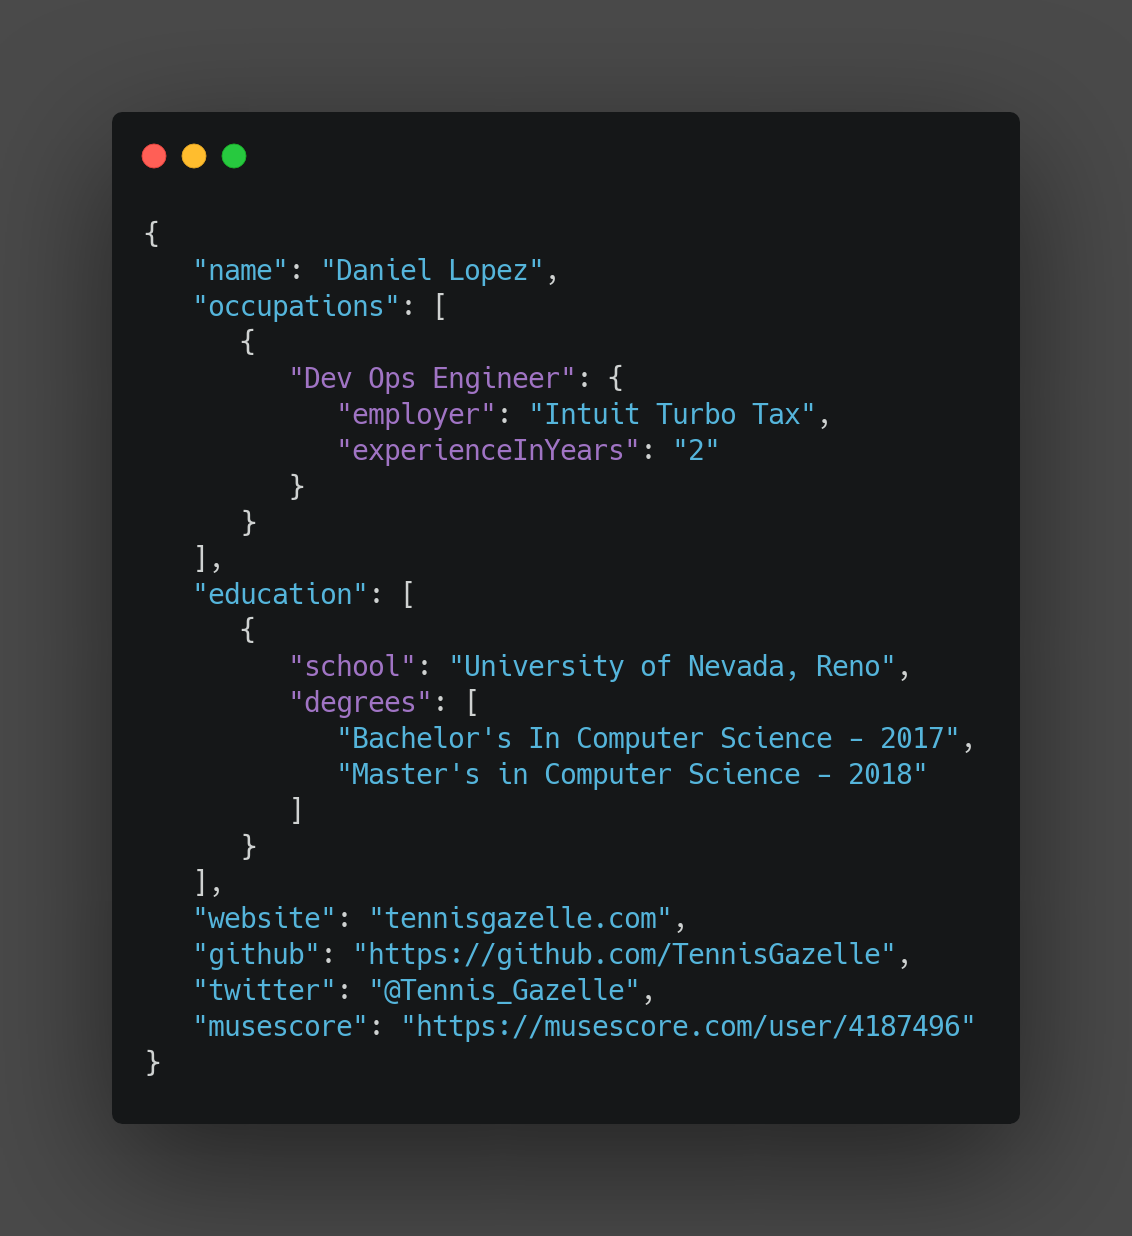
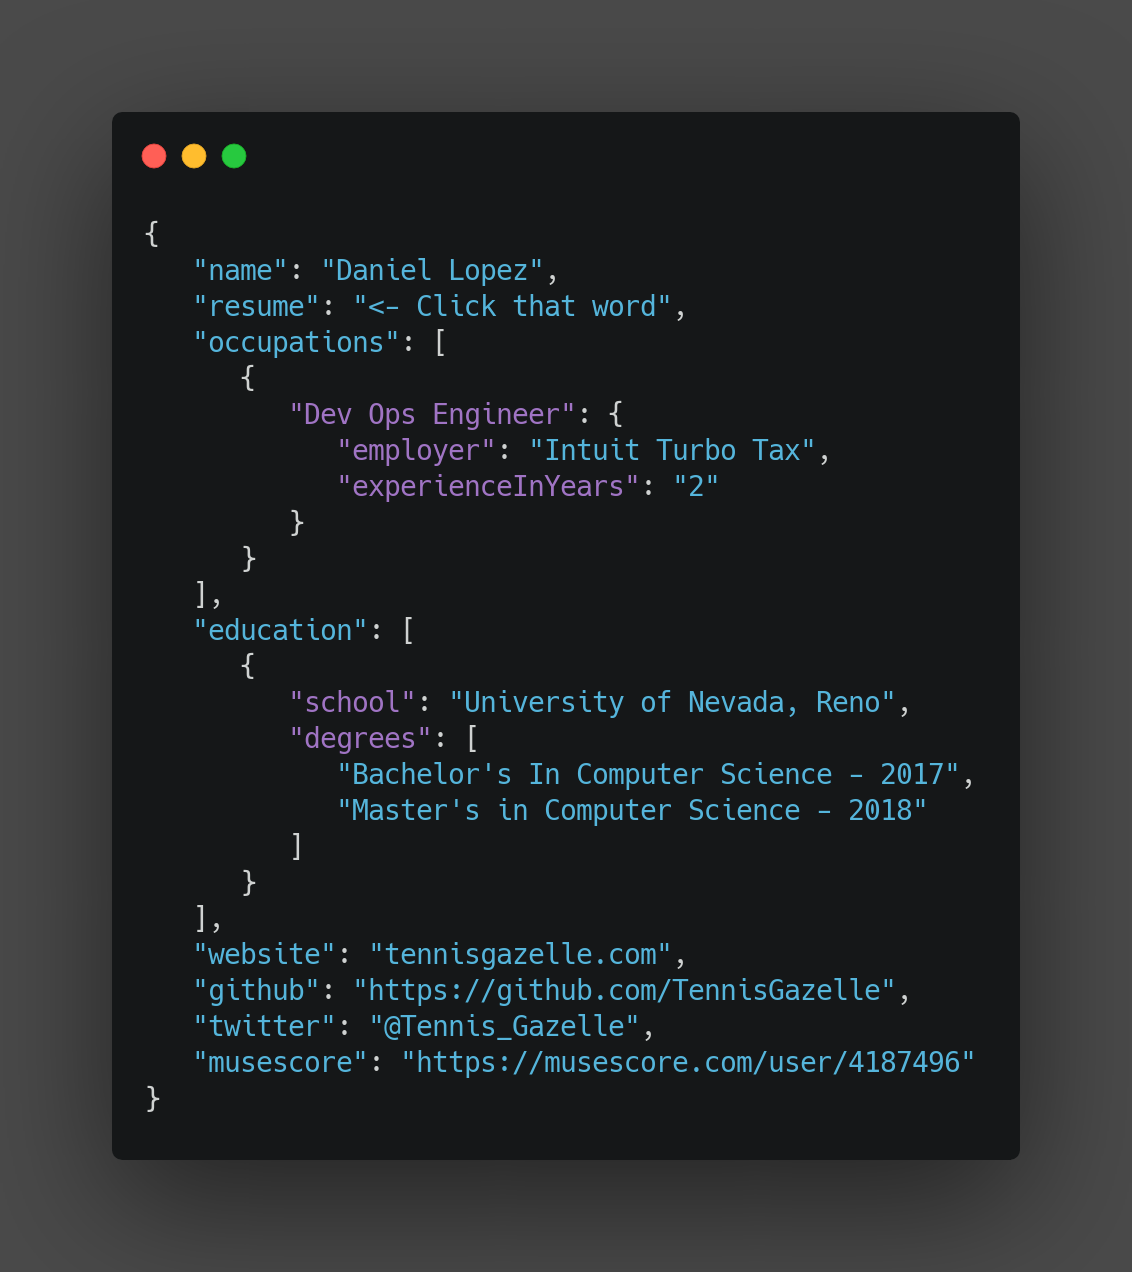
[content update]

diff --git a/docs/home.html b/docs/home.html
@@ -40,11 +40,12 @@
     <script>anchors.add();</script> -->
 
 <map name="mapname">
-    <area shape="rect" coords="196,942,331,970" href="https://github.com/TennisGazelle" onclick="javascript:window.open("https://github.com/TennisGazelle"); return false;" alt="github profile"/>
-<area shape="rect" coords="356,942,907,970" href="https://github.com/TennisGazelle" onclick="javascript:window.open("https://github.com/TennisGazelle"); return false;" alt="github profile"/>
-<area shape="rect" coords="196,978,347,1000" href="https://twitter.com/Tennis_Gazelle" onclick="javascript:window.open("https://twitter.com/Tennis_Gazelle"); return false;" alt="twitter profile"/>
-<area shape="rect" coords="196,1015,379,1036" href="https://musescore.com/user/4187496" onclick="javascript:window.open("https://musescore.com/user/4187496"); return false;" alt="musescore profile"/>
-<area shape="rect" coords="404,1014,973,1042" href="https://musescore.com/user/4187496" onclick="javascript:window.open("https://musescore.com/user/4187496"); return false;" alt="musescore profile"/>
+    <area shape="rect" coords="196,295,331,316" href="https://tennisgazelle.com/resume.pdf" onclick="javascript:window.open("https://tennisgazelle.com/resume.pdf"); return false;" alt="resume as a pdf"/>
+<area shape="rect" coords="196,978,331,1006" href="https://github.com/TennisGazelle" onclick="javascript:window.open("https://github.com/TennisGazelle"); return false;" alt="github profile"/>
+<area shape="rect" coords="356,978,907,1006" href="https://github.com/TennisGazelle" onclick="javascript:window.open("https://github.com/TennisGazelle"); return false;" alt="github profile"/>
+<area shape="rect" coords="196,1014,347,1036" href="https://twitter.com/Tennis_Gazelle" onclick="javascript:window.open("https://twitter.com/Tennis_Gazelle"); return false;" alt="twitter profile"/>
+<area shape="rect" coords="196,1051,379,1072" href="https://musescore.com/user/4187496" onclick="javascript:window.open("https://musescore.com/user/4187496"); return false;" alt="musescore profile"/>
+<area shape="rect" coords="404,1050,973,1078" href="https://musescore.com/user/4187496" onclick="javascript:window.open("https://musescore.com/user/4187496"); return false;" alt="musescore profile"/>
     </map><img src="images/home.png" alt="alttext" usemap="#mapname">    
   </body>
 </html>

diff --git a/docs/index.html b/docs/index.html
@@ -40,11 +40,12 @@
     <script>anchors.add();</script> -->
 
 <map name="mapname">
-    <area shape="rect" coords="196,942,331,970" href="https://github.com/TennisGazelle" onclick="javascript:window.open("https://github.com/TennisGazelle"); return false;" alt="github profile"/>
-<area shape="rect" coords="356,942,907,970" href="https://github.com/TennisGazelle" onclick="javascript:window.open("https://github.com/TennisGazelle"); return false;" alt="github profile"/>
-<area shape="rect" coords="196,978,347,1000" href="https://twitter.com/Tennis_Gazelle" onclick="javascript:window.open("https://twitter.com/Tennis_Gazelle"); return false;" alt="twitter profile"/>
-<area shape="rect" coords="196,1015,379,1036" href="https://musescore.com/user/4187496" onclick="javascript:window.open("https://musescore.com/user/4187496"); return false;" alt="musescore profile"/>
-<area shape="rect" coords="404,1014,973,1042" href="https://musescore.com/user/4187496" onclick="javascript:window.open("https://musescore.com/user/4187496"); return false;" alt="musescore profile"/>
+    <area shape="rect" coords="196,295,331,316" href="https://tennisgazelle.com/resume.pdf" onclick="javascript:window.open("https://tennisgazelle.com/resume.pdf"); return false;" alt="resume as a pdf"/>
+<area shape="rect" coords="196,978,331,1006" href="https://github.com/TennisGazelle" onclick="javascript:window.open("https://github.com/TennisGazelle"); return false;" alt="github profile"/>
+<area shape="rect" coords="356,978,907,1006" href="https://github.com/TennisGazelle" onclick="javascript:window.open("https://github.com/TennisGazelle"); return false;" alt="github profile"/>
+<area shape="rect" coords="196,1014,347,1036" href="https://twitter.com/Tennis_Gazelle" onclick="javascript:window.open("https://twitter.com/Tennis_Gazelle"); return false;" alt="twitter profile"/>
+<area shape="rect" coords="196,1051,379,1072" href="https://musescore.com/user/4187496" onclick="javascript:window.open("https://musescore.com/user/4187496"); return false;" alt="musescore profile"/>
+<area shape="rect" coords="404,1050,973,1078" href="https://musescore.com/user/4187496" onclick="javascript:window.open("https://musescore.com/user/4187496"); return false;" alt="musescore profile"/>
     </map><img src="images/home.png" alt="alttext" usemap="#mapname">    
   </body>
 </html>
